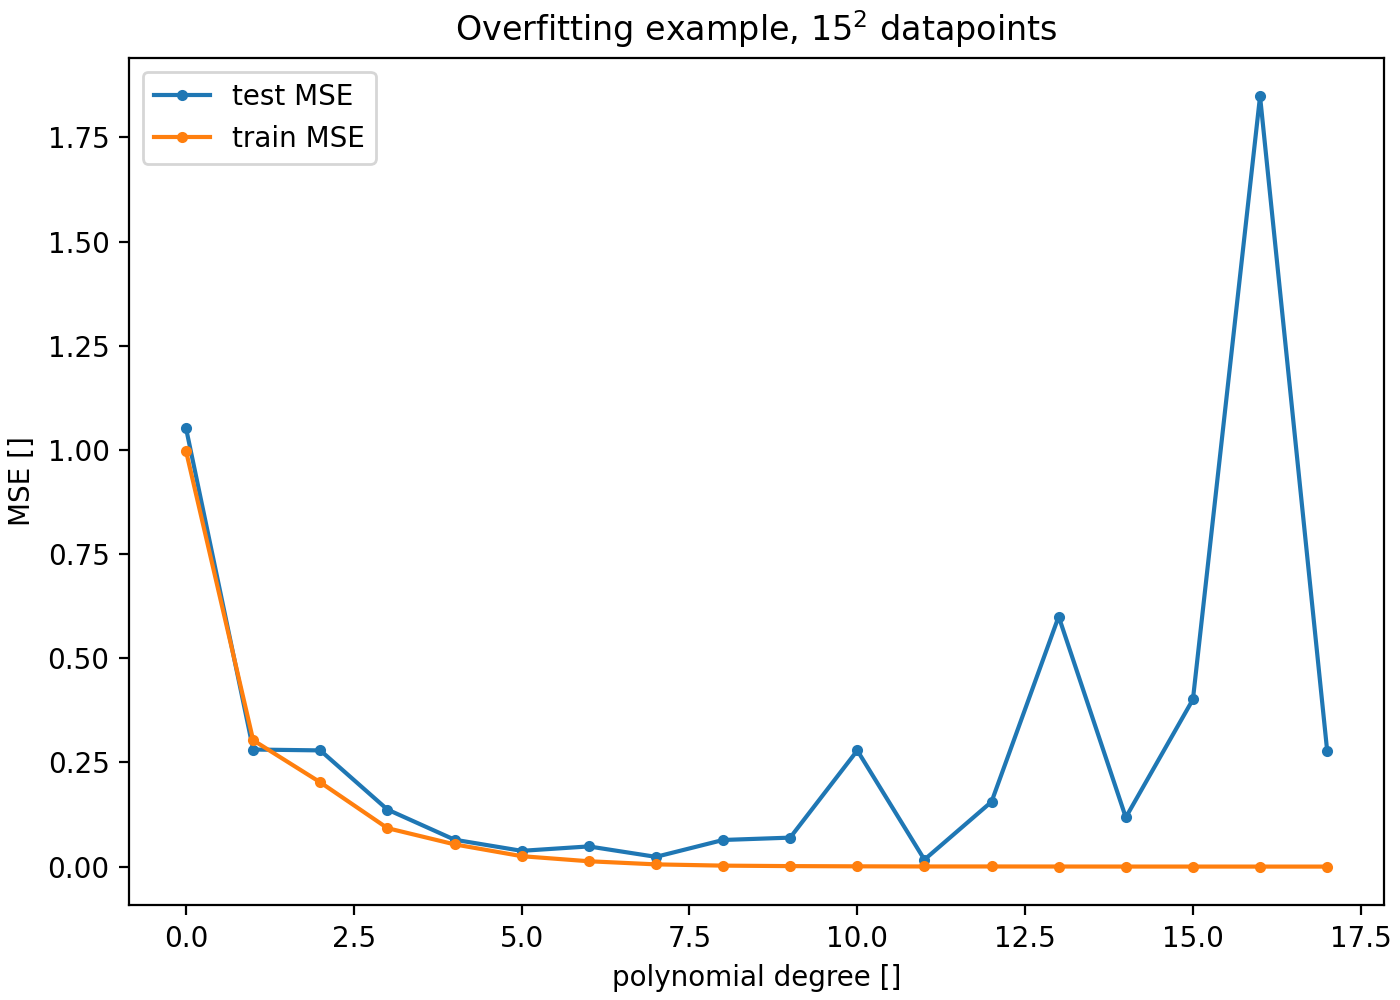
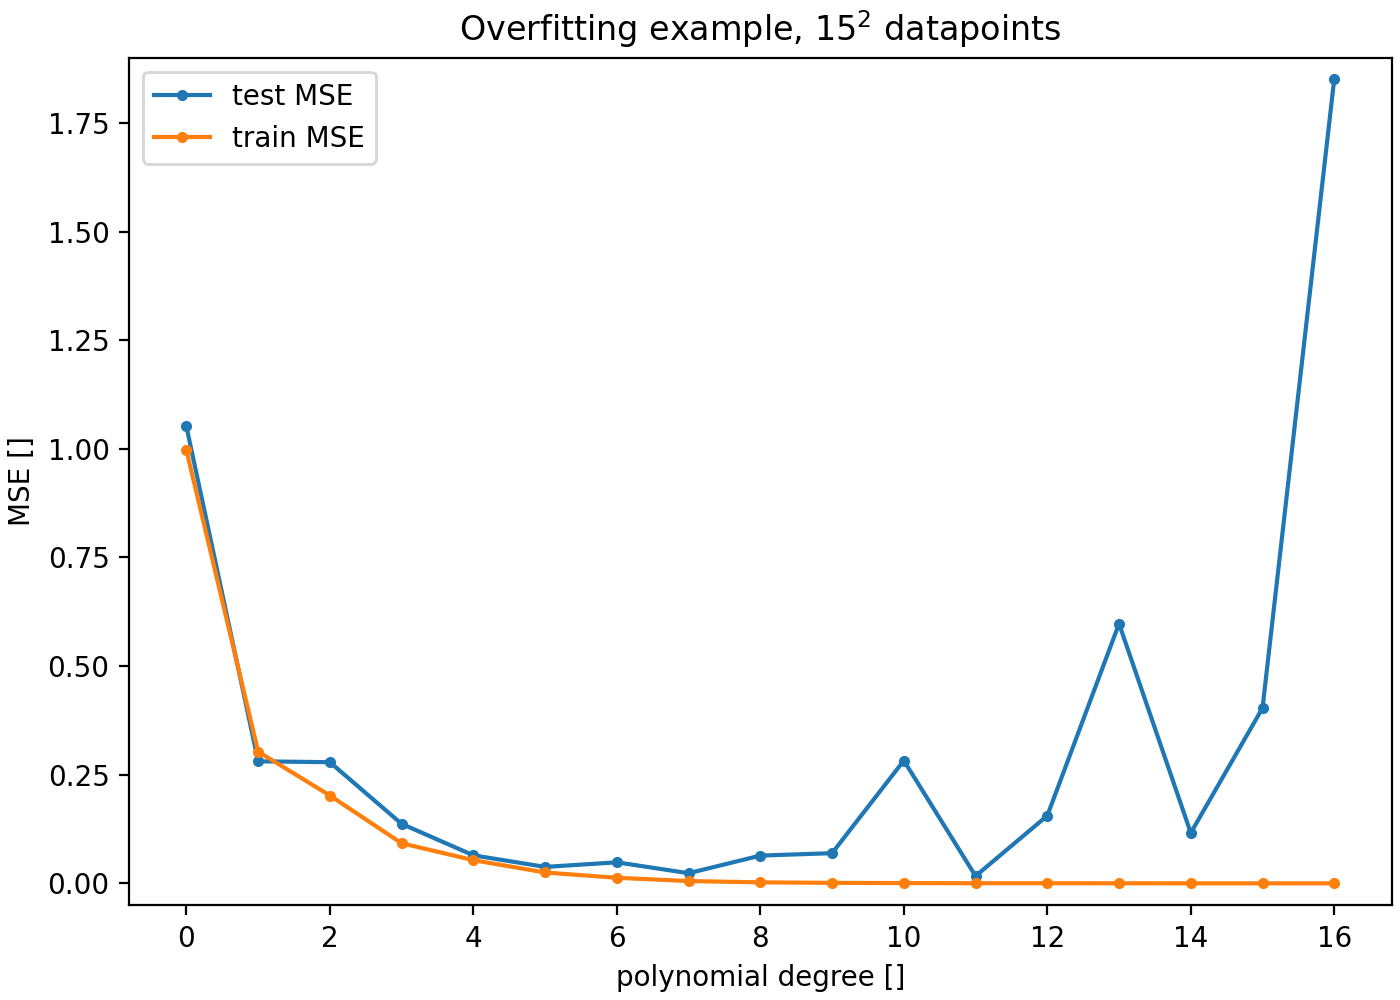
true final commit

diff --git a/project1/overfitinator.py b/project1/overfitinator.py
@@ -35,7 +35,7 @@ if __name__ == "__main__":
     np.random.seed(1337)
 
     n = 15
-    max_degree = 17
+    max_degree = 16
     x_grid, y_grid, z_grid = initialize_franke(n)
     degree_list = list(range(max_degree+1))
     MSE_test_ray = np.zeros(len(degree_list))
@@ -50,6 +50,7 @@ if __name__ == "__main__":
     plt.plot(degree_list, MSE_test_ray, ".-", label="test MSE")
     plt.plot(degree_list, MSE_train_ray, ".-", label="train MSE")
     plt.legend()
+    plt.ylim(-0.05, 1.9)
     plt.xlabel("polynomial degree []")
     plt.ylabel("MSE []")
     plt.title(f"Overfitting example, ${n}^2$ datapoints")
